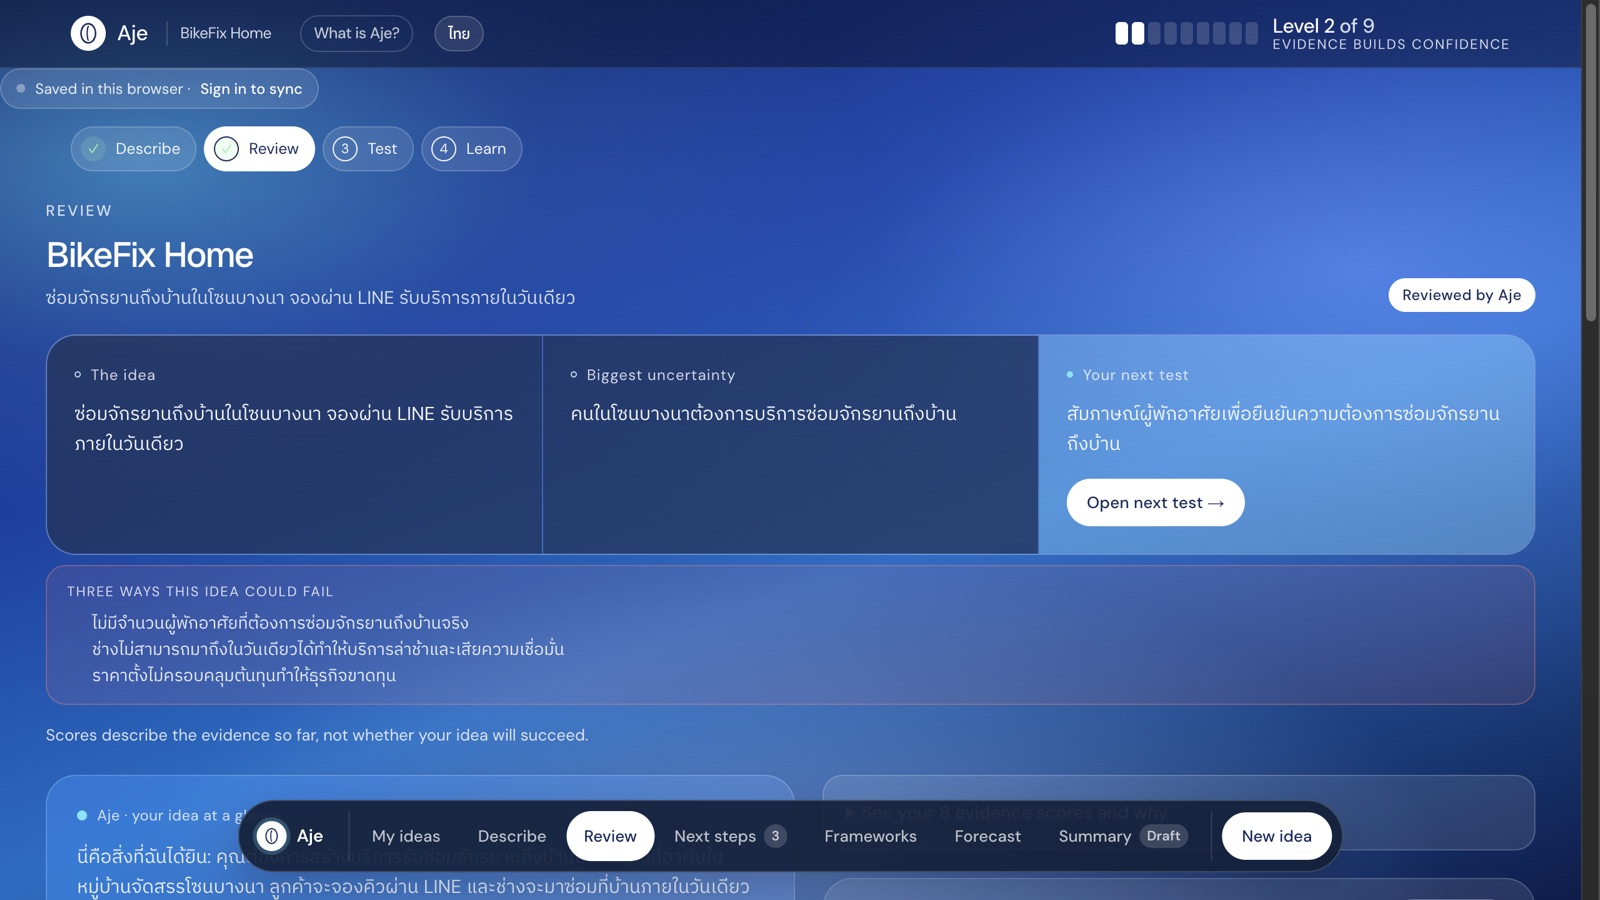
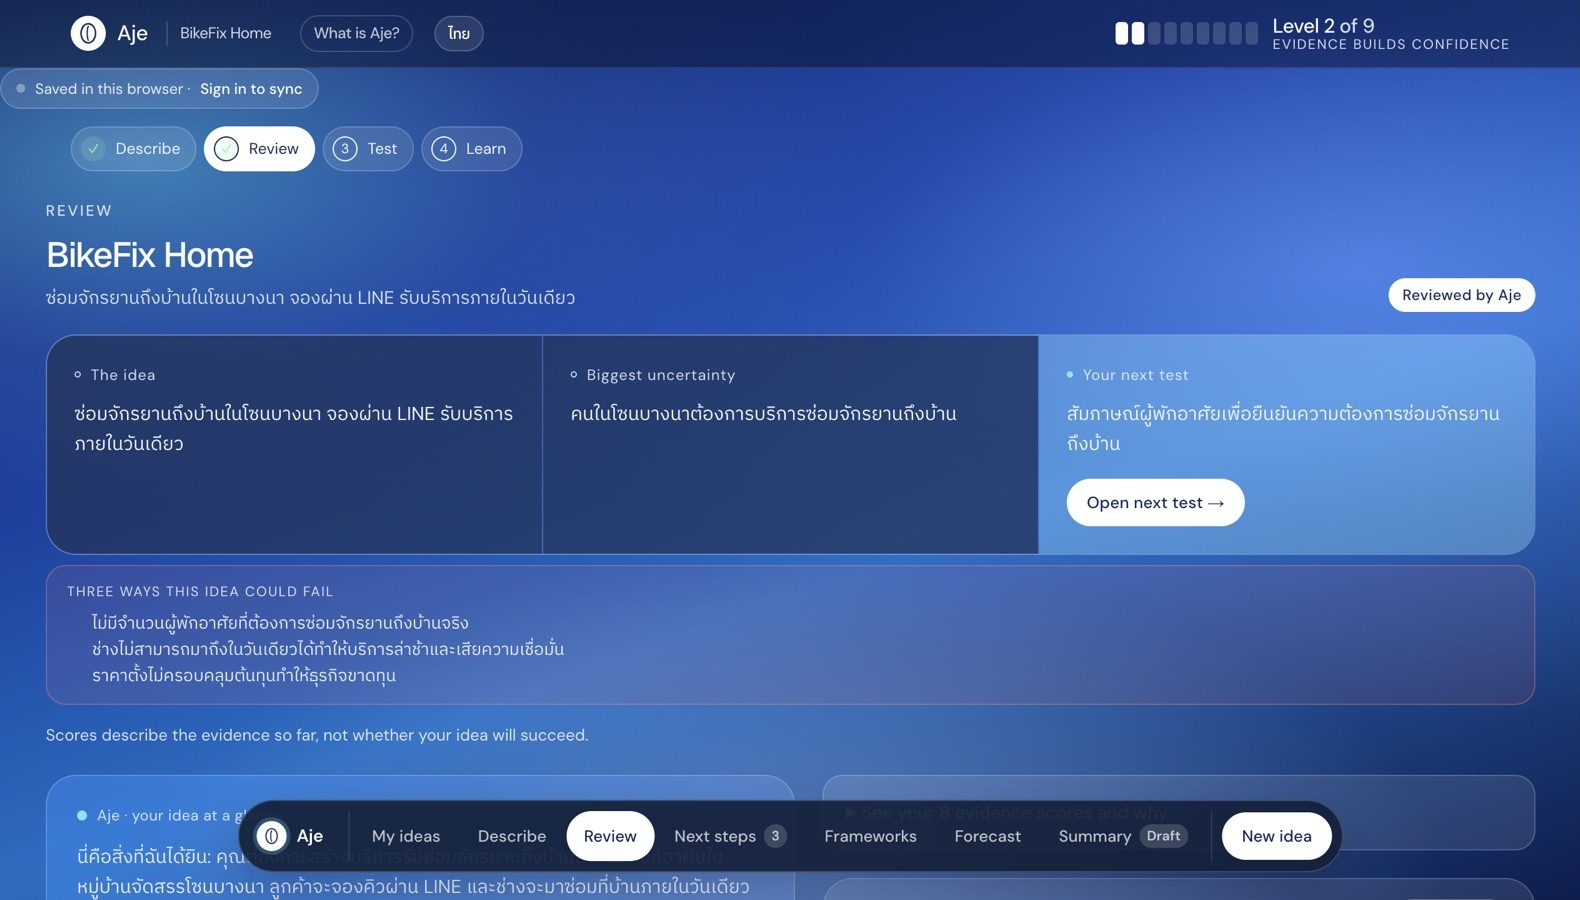
content(projects): the 24-Sep lineup with every White Edition field, cleaner Aje and GoNai captures
Claude-Session: https://claude.ai/code/session_01DunfARiJ7kn4wfov81H1gp

diff --git a/tests/projects-fixture.test.ts b/tests/projects-fixture.test.ts
@@ -1,0 +1,73 @@
+import { statSync } from 'node:fs';
+import { join } from 'node:path';
+import { describe, expect, it } from 'vitest';
+import projects from '@/content/fixtures/projects.json';
+import type { Project } from '@/lib/models';
+import { PROJECT_MEDIA, PROJECT_STATUS_KEYS, PROJECT_WASHES } from '@/lib/models';
+import { mapProject } from '@/lib/notion-mappers';
+
+const fixtures = projects as Project[];
+const byName = (name: string) => fixtures.find((p) => p.name === name)!;
+
+describe('projects fixture (the 24-Sep lineup)', () => {
+  it('is the approved lineup, in page order', () => {
+    const ordered = [...fixtures].sort((a, b) => a.order - b.order).map((p) => p.name);
+    expect(ordered).toEqual(['Talatify', 'Tripedia', 'Aje', 'GoNai', 'klao-site']);
+  });
+
+  it('carries exactly the fields the Notion mapper produces — the two-layer rule', () => {
+    const minimalRow = { id: 'row', properties: { Name: { title: [{ plain_text: 'X' }] } } };
+    const keys = Object.keys(mapProject(minimalRow)!).sort();
+    for (const p of fixtures) expect(Object.keys(p).sort(), p.name).toEqual(keys);
+  });
+
+  it('uses only valid select values', () => {
+    for (const p of fixtures) {
+      if (p.statusKey !== null) expect(PROJECT_STATUS_KEYS).toContain(p.statusKey);
+      expect(PROJECT_MEDIA).toContain(p.media);
+      expect(PROJECT_WASHES).toContain(p.wash);
+    }
+  });
+
+  it('fills status, kicker, alt and question in both languages on every project', () => {
+    for (const p of fixtures) {
+      for (const field of [p.status, p.kicker, p.alt, p.question]) {
+        expect(field?.en, p.name).toBeTruthy();
+        expect(field?.th, p.name).toBeTruthy();
+      }
+    }
+  });
+
+  it('tours the three builds, Aje → GoNai → klao-site', () => {
+    const toured = fixtures.filter((p) => p.tour).sort((a, b) => (a.tourOrder ?? 99) - (b.tourOrder ?? 99));
+    expect(toured.map((p) => p.name)).toEqual(['Aje', 'GoNai', 'klao-site']);
+  });
+
+  it('links GoNai back to Tripedia — same idea, four years apart — and nothing else', () => {
+    expect(byName('GoNai').lineageOf).toBe(byName('Tripedia').id);
+    expect(fixtures.filter((p) => p.lineageOf !== null)).toHaveLength(1);
+  });
+
+  it('gives klao-site the Notion-row vignette instead of the old dark screenshot', () => {
+    expect(byName('klao-site').media).toBe('notion');
+    expect(byName('klao-site').imageSrc).toBeNull();
+  });
+
+  it('points every screenshot at a real file in public/, at most 250 KB', () => {
+    for (const p of fixtures.filter((x) => x.imageSrc)) {
+      const size = statSync(join('public', p.imageSrc!)).size;
+      expect(size, `${p.imageSrc} is ${size} bytes`).toBeLessThanOrEqual(250 * 1024);
+    }
+  });
+
+  it('keeps the single-line outcome in step with the outcomes list', () => {
+    for (const p of fixtures) {
+      if (p.outcomes.en.length === 0) expect(p.outcome).toBeNull();
+      else expect(p.outcome).toEqual({ en: p.outcomes.en.join(' · '), th: p.outcomes.th.join(' · ') });
+    }
+  });
+
+  it('keeps "|" break marks out of project copy — /projects still prints it without ThaiText', () => {
+    expect(JSON.stringify(fixtures)).not.toContain('|');
+  });
+});

diff --git a/src/lib/image-alt.ts b/src/lib/image-alt.ts
@@ -9,7 +9,7 @@
 // so both consumers share one map). Locale-invariant on purpose: these
 // describe the fixed pixels of a static screenshot, not translated UI copy.
 const GONAI =
-  'A white landing-page hero with an airplane-and-Thai-flag logomark, a bold headline about planning a full day out and knowing every baht before leaving, a budget search field, a black "start planning" button, and small floating cards noting a confirmed fare and a BTS fare between two stations.';
+  'A white landing-page hero with an airplane-and-Thai-flag logomark, a bold headline about planning a full day out and knowing every baht before leaving, a budget search field, a black "start planning" button, and small floating cards noting fares from official tables and a BTS fare between two stations.';
 const AJE =
   'A dark blue idea-review screen with a four-step tracker (Describe, Review, Test, Learn) at "Level 2 of 9", a Thai-language business idea with three side-by-side panels for the idea, its biggest uncertainty and the next test to run, a bulleted list of ways the idea could fail, and a bottom tab bar for ideas, review, frameworks and forecast.';
 const KLAO_SITE =

diff --git a/tests/content.test.ts b/tests/content.test.ts
@@ -95,10 +95,10 @@ describe('content API (fixture mode)', () => {
     await expect(getQuestions()).resolves.toEqual([]);
   });
 
-  it('carries Aje and klao-site as featured builds, with Aje leading the Build chapter', async () => {
+  it('carries the 24-Sep lineup: three builds led by Aje, two business plays', async () => {
     const featured = await getFeaturedProjects();
-    const builds = featured.filter((p) => p.type === 'build').map((p) => p.name);
-    expect(builds).toEqual(['Aje', 'GoNai', 'klao-site']);
+    expect(featured.filter((p) => p.type === 'build').map((p) => p.name)).toEqual(['Aje', 'GoNai', 'klao-site']);
+    expect(featured.filter((p) => p.type === 'business').map((p) => p.name)).toEqual(['Talatify', 'Tripedia']);
     const aje = featured.find((p) => p.name === 'Aje')!;
     expect(aje.outcome?.en).toContain('Working prototype');
     expect(aje.liveUrl).toBeNull();
